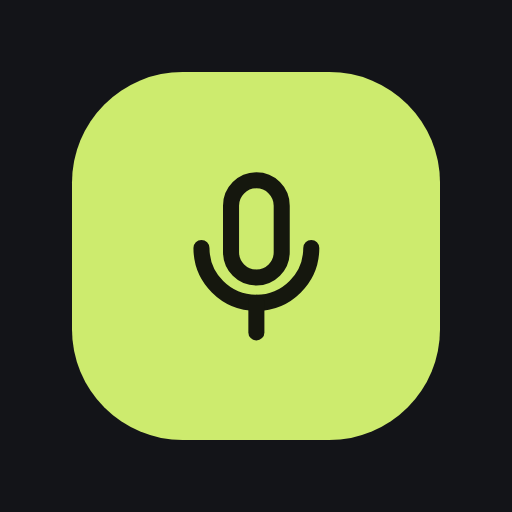
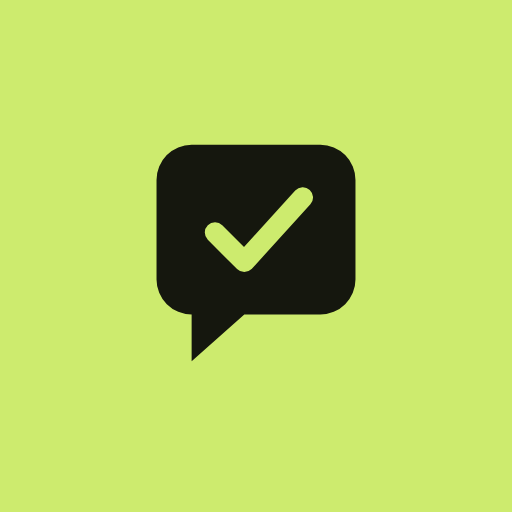
לוגו חדש, אייקון ומסך טעינה
Claude-Session: https://claude.ai/code/session_012Xttaxgfyk8qGiggm4zwxy

diff --git a/src/App.tsx b/src/App.tsx
@@ -21,6 +21,7 @@ import Shopping from './pages/Shopping'
 import Nav from './components/Nav'
 import TaskSheet from './components/TaskSheet'
 import Toast from './components/Toast'
+import { Splash } from './components/Logo'
 
 function applyTheme(theme: string | undefined) {
   const t = theme === 'light' || theme === 'dark' ? theme : window.matchMedia('(prefers-color-scheme: light)').matches ? 'light' : 'dark'
@@ -94,9 +95,9 @@ export default function App() {
   useEffect(() => { applyTheme(profile?.theme) }, [profile?.theme])
 
   let body
-  if (!authChecked) body = <div className="login"><div /><div className="row" style={{ justifyContent: 'center' }}><div className="spinner" /></div><div /></div>
+  if (!authChecked) body = <Splash />
   else if (!session) body = <Login />
-  else if (!profile) body = <div className="login"><div /><div className="row" style={{ justifyContent: 'center' }}><div className="spinner" /></div><div /></div>
+  else if (!profile) body = <Splash />
   else if (profile.status !== 'approved') body = <Pending />
   else if (!profile.onboarded) body = <Onboarding />
   else body = <HashRouter><Shell /></HashRouter>

diff --git a/src/components/Logo.tsx b/src/components/Logo.tsx
@@ -1,0 +1,25 @@
+export function Logo({ size = 64 }: { size?: number }) {
+  return (
+    <svg width={size} height={size} viewBox="0 0 140 140" role="img" aria-label="דבר אליי">
+      <rect width="140" height="140" rx="36" fill="var(--accent)" />
+      <path d="M36 44a12 12 0 0 1 12-12h44a12 12 0 0 1 12 12v34a12 12 0 0 1-12 12H66l-18 16v-16a12 12 0 0 1-12-12z" fill="var(--on-accent)" />
+      <path d="M56 62l10 10 20-22" fill="none" stroke="var(--accent)" strokeWidth="7" strokeLinecap="round" strokeLinejoin="round" />
+    </svg>
+  )
+}
+
+export function Splash() {
+  return (
+    <div className="splash">
+      <div />
+      <div className="col" style={{ alignItems: 'center', gap: 26 }}>
+        <Logo size={112} />
+        <div className="col" style={{ alignItems: 'center', gap: 6 }}>
+          <div style={{ fontSize: 30, fontWeight: 600, letterSpacing: -0.5 }}>דבר אליי</div>
+          <div className="muted" style={{ fontSize: 15, fontWeight: 300 }}>אתה מדבר, אני זוכר.</div>
+        </div>
+      </div>
+      <div className="splash-bar"><span /></div>
+    </div>
+  )
+}

diff --git a/src/styles.css b/src/styles.css
@@ -202,3 +202,7 @@ h2.title { margin: 0; font-size: 24px; font-weight: 600; letter-spacing: -0.4px;
 .homepage > * { flex-shrink: 0; }
 .homepage .home-list { flex: 1 1 auto; min-height: 0; overflow-y: auto; -webkit-overflow-scrolling: touch; margin: 0 -4px; padding: 0 4px 8px; display: flex; flex-direction: column; gap: 12px; }
 @media (max-height: 700px) { .homepage { gap: 8px } .homepage .seg button { height: 32px } }
+.splash { min-height: 100dvh; display: flex; flex-direction: column; align-items: center; justify-content: space-between; padding-bottom: calc(env(safe-area-inset-bottom) + 64px); background: var(--bg); }
+.splash-bar { width: 64px; height: 4px; border-radius: 2px; background: var(--seg-off); overflow: hidden; }
+.splash-bar span { display: block; width: 40%; height: 100%; border-radius: 2px; background: var(--accent); animation: load 1.2s cubic-bezier(.32,.72,0,1) infinite; }
+@keyframes load { from { transform: translateX(150%) } to { transform: translateX(-250%) } }

diff --git a/src/pages/Login.tsx b/src/pages/Login.tsx
@@ -1,6 +1,6 @@
 import { useState } from 'react'
 import { supabase } from '../lib/supabase'
-import { Icon } from '../components/Icon'
+import { Logo } from '../components/Logo'
 
 export default function Login() {
   const [mode, setMode] = useState<'signin' | 'signup'>('signin')
@@ -33,7 +33,7 @@ export default function Login() {
   return (
     <div className="login">
       <div className="col" style={{ gap: 20 }}>
-        <div className="logo"><Icon name="mic" size={32} stroke={1.75} /></div>
+        <Logo size={64} />
         <h1 className="hero"><span className="light">דבר אליי.</span>אתה מדבר, אני זוכר.</h1>
         <p className="muted" style={{ margin: 0, lineHeight: 1.6 }}>משימות, רעיונות וקניות. בקול, בכתב או בתמונה, ושום דבר לא נשכח.</p>
       </div>

diff --git a/src/pages/Onboarding.tsx b/src/pages/Onboarding.tsx
@@ -5,6 +5,7 @@ import { enablePush, isIOS, isStandalone, pushSupported } from '../lib/push'
 import type { World } from '../lib/types'
 import { WORLD_LABEL } from '../lib/dates'
 import { Icon } from '../components/Icon'
+import { Logo } from '../components/Logo'
 
 const STEPS = 11
 
@@ -57,7 +58,7 @@ export default function Onboarding() {
 
   const screens = [
     <>
-      <div className="logo"><Icon name="mic" size={32} stroke={1.75} /></div>
+      <Logo size={64} />
       <h1 className="hero"><span className="light">ברוך הבא.</span>בוא נכיר בדקה.</h1>
       <p className="muted" style={{ lineHeight: 1.6 }}>כמה שאלות קצרות, כדי שאדע מתי לפנות אליך ואיך נוח לך לעבוד. הכל ניתן לשינוי אחר כך.</p>
     </>,

diff --git a/index.html b/index.html
@@ -16,7 +16,7 @@
     <title>דבר אליי</title>
   </head>
   <body>
-    <div id="root"></div>
+    <div id="root"><div style="min-height:100vh;display:flex;align-items:center;justify-content:center;background:#131418"><svg width="112" height="112" viewBox="0 0 140 140"><rect width="140" height="140" rx="36" fill="#CDEB6E"/><path d="M36 44a12 12 0 0 1 12-12h44a12 12 0 0 1 12 12v34a12 12 0 0 1-12 12H66l-18 16v-16a12 12 0 0 1-12-12z" fill="#15170E"/><path d="M56 62l10 10 20-22" fill="none" stroke="#CDEB6E" stroke-width="7" stroke-linecap="round" stroke-linejoin="round"/></svg></div></div>
     <script type="module" src="/src/main.tsx"></script>
   </body>
 </html>
